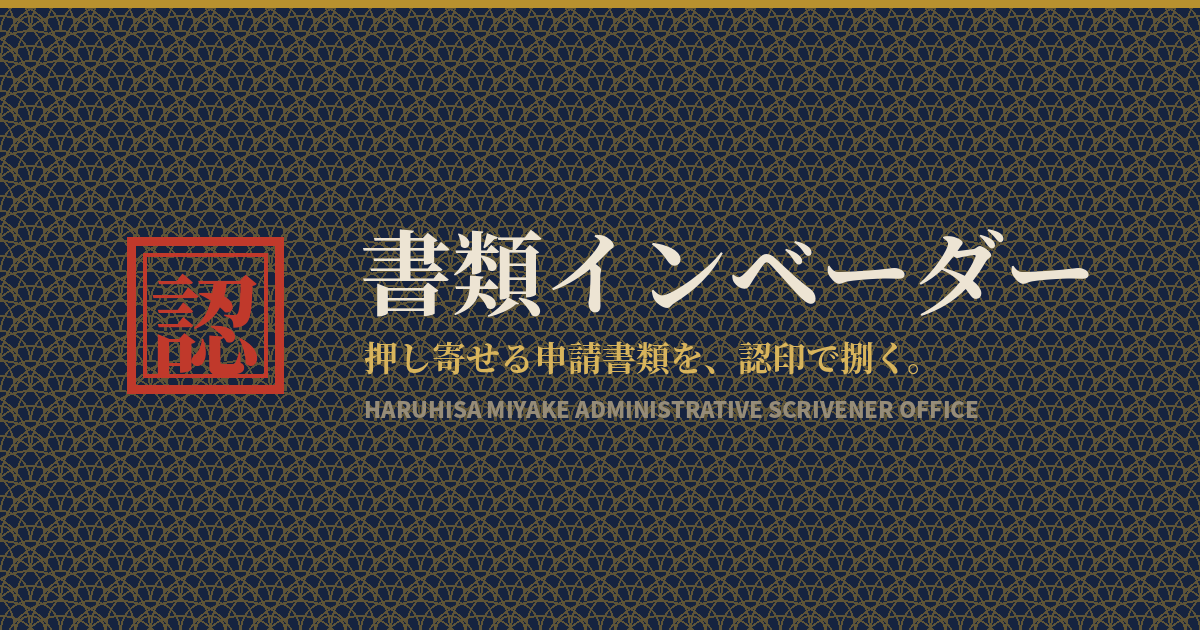
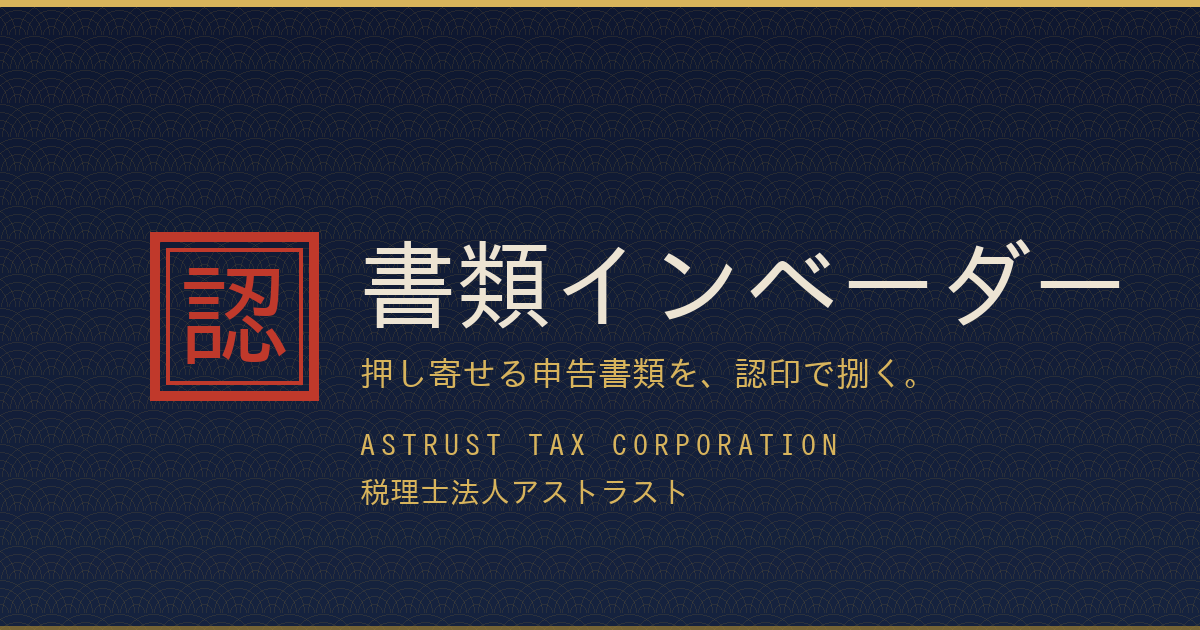
OG画像を税理士法人アストラスト版に作り直し
- 旧バナー（三宅晴久行政書士）を差し替え、認印＋青海波の新og.png生成
  （書類インベーダー／申告書類／ASTRUST TAX CORPORATION・税理士法人アストラスト）
- og:image に ?v=2 を付与しSNSプレビューのキャッシュを更新

Claude-Session: https://claude.ai/code/session_013ctxT77CFicwohgqfzUHtP

diff --git a/index.html b/index.html
@@ -12,7 +12,7 @@
 <meta property="og:title" content="書類インベーダー｜税理士法人アストラスト">
 <meta property="og:description" content="押し寄せる申告書類を認印で捌く。必殺・一括計算。">
 <meta property="og:url" content="https://shorui-invader.web.app/">
-<meta property="og:image" content="https://shorui-invader.web.app/og.png">
+<meta property="og:image" content="https://shorui-invader.web.app/og.png?v=2">
 <meta name="twitter:card" content="summary_large_image">
 <!-- 検索に出したくない場合は次の行のコメントを外す
 <meta name="robots" content="noindex">
